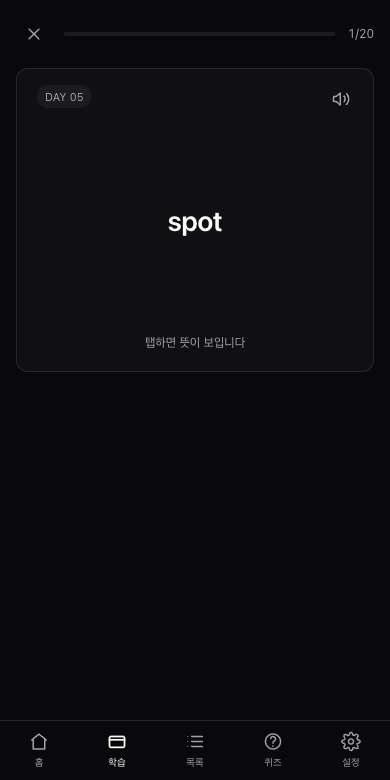
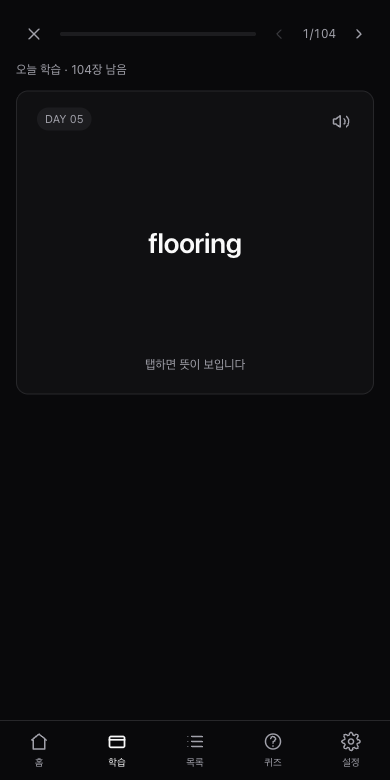
가이드 스크린샷을 최신 화면으로 다시 찍었다
설명서 그림이 두 시간 전 화면이라 실제와 달랐다. 그 사이 채점 버튼이 셋에서
넷으로 늘고, 등급 필터가 토글로 바뀌고, 홈에 배운 단어 복습이 생기고, DAY 목록이
두 묶음으로 갈렸다. 그림과 실물이 다르면 설명서가 오히려 헷갈리게 만든다.

라이트와 다크 두 벌을 다시 찍고, DAY를 길게 눌렀을 때의 선택 시트도 새로 넣었다.

Claude-Session: https://claude.ai/code/session_018rRY3VEJffFBosdHRxrs2Q

diff --git a/docs/guide.html b/docs/guide.html
@@ -258,6 +258,12 @@ footer a { color:inherit; }
     <tr><td>DAY 목록</td><td>DAY별 진행률. <code>67/101</code>은 101단어 중 67개를 봤다는 뜻이고, 아래 밑줄이 진행률 막대입니다. <strong>누르면 그 DAY 외우기가 시작</strong>됩니다.</td></tr>
   </table>
   <h3>DAY를 길게 누르면</h3>
+  <figure>
+    <picture>
+      <source srcset="guide/sheet-dark.png" media="(prefers-color-scheme: dark)">
+      <img src="guide/sheet.png" alt="DAY 선택 시트">
+    </picture>
+  </figure>
   <p>선택 시트가 열립니다.</p>
   <ul>
     <li><b>외우기</b> — 그냥 누른 것과 같습니다.</li>

diff --git a/docs/sw.js b/docs/sw.js
@@ -1,6 +1,6 @@
 /* 오프라인 캐시. 셸과 단어 데이터를 설치 시 통째로 받아둔다. */
 
-const CACHE = 'toeic-voca-v37';
+const CACHE = 'toeic-voca-v38';
 const ASSETS = [
   './',
   './index.html',
@@ -21,6 +21,8 @@ const ASSETS = [
   './guide/quiz-dark.png',
   './guide/settings.png',
   './guide/settings-dark.png',
+  './guide/sheet.png',
+  './guide/sheet-dark.png',
   './icons/icon-192.png',
   './icons/icon-512.png',
 ];
